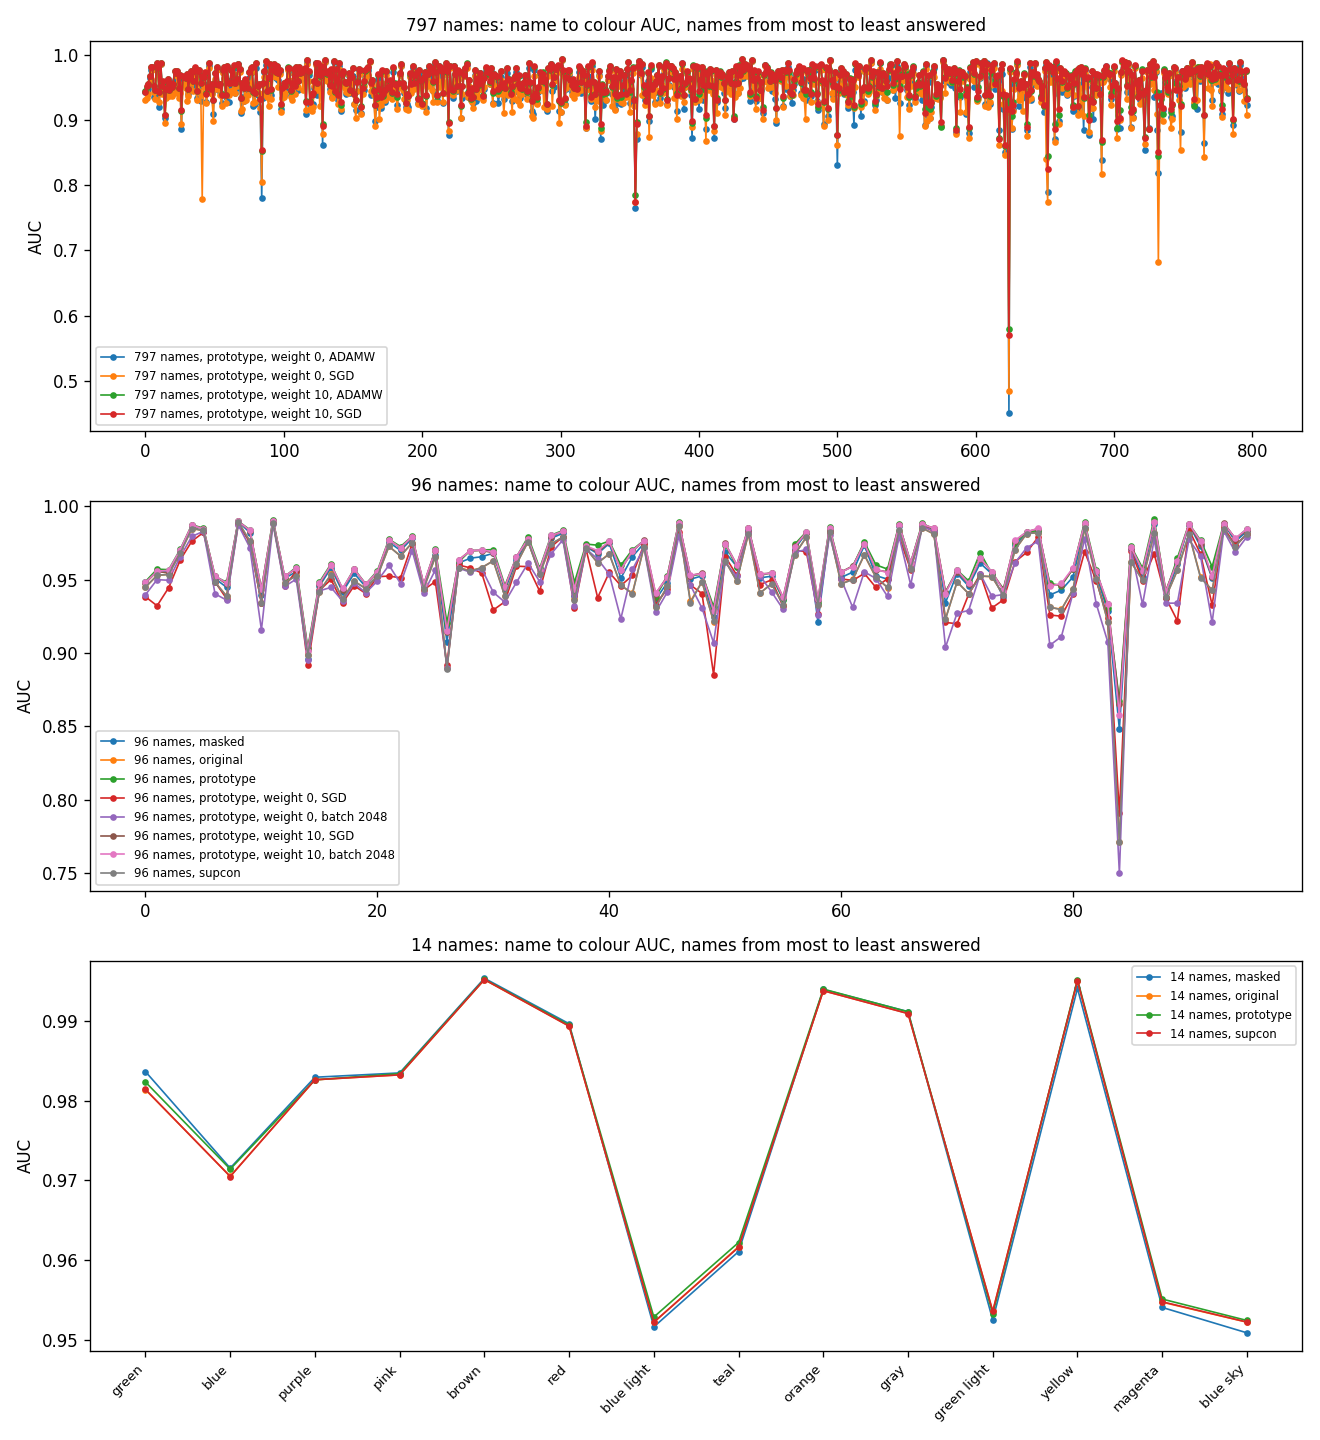
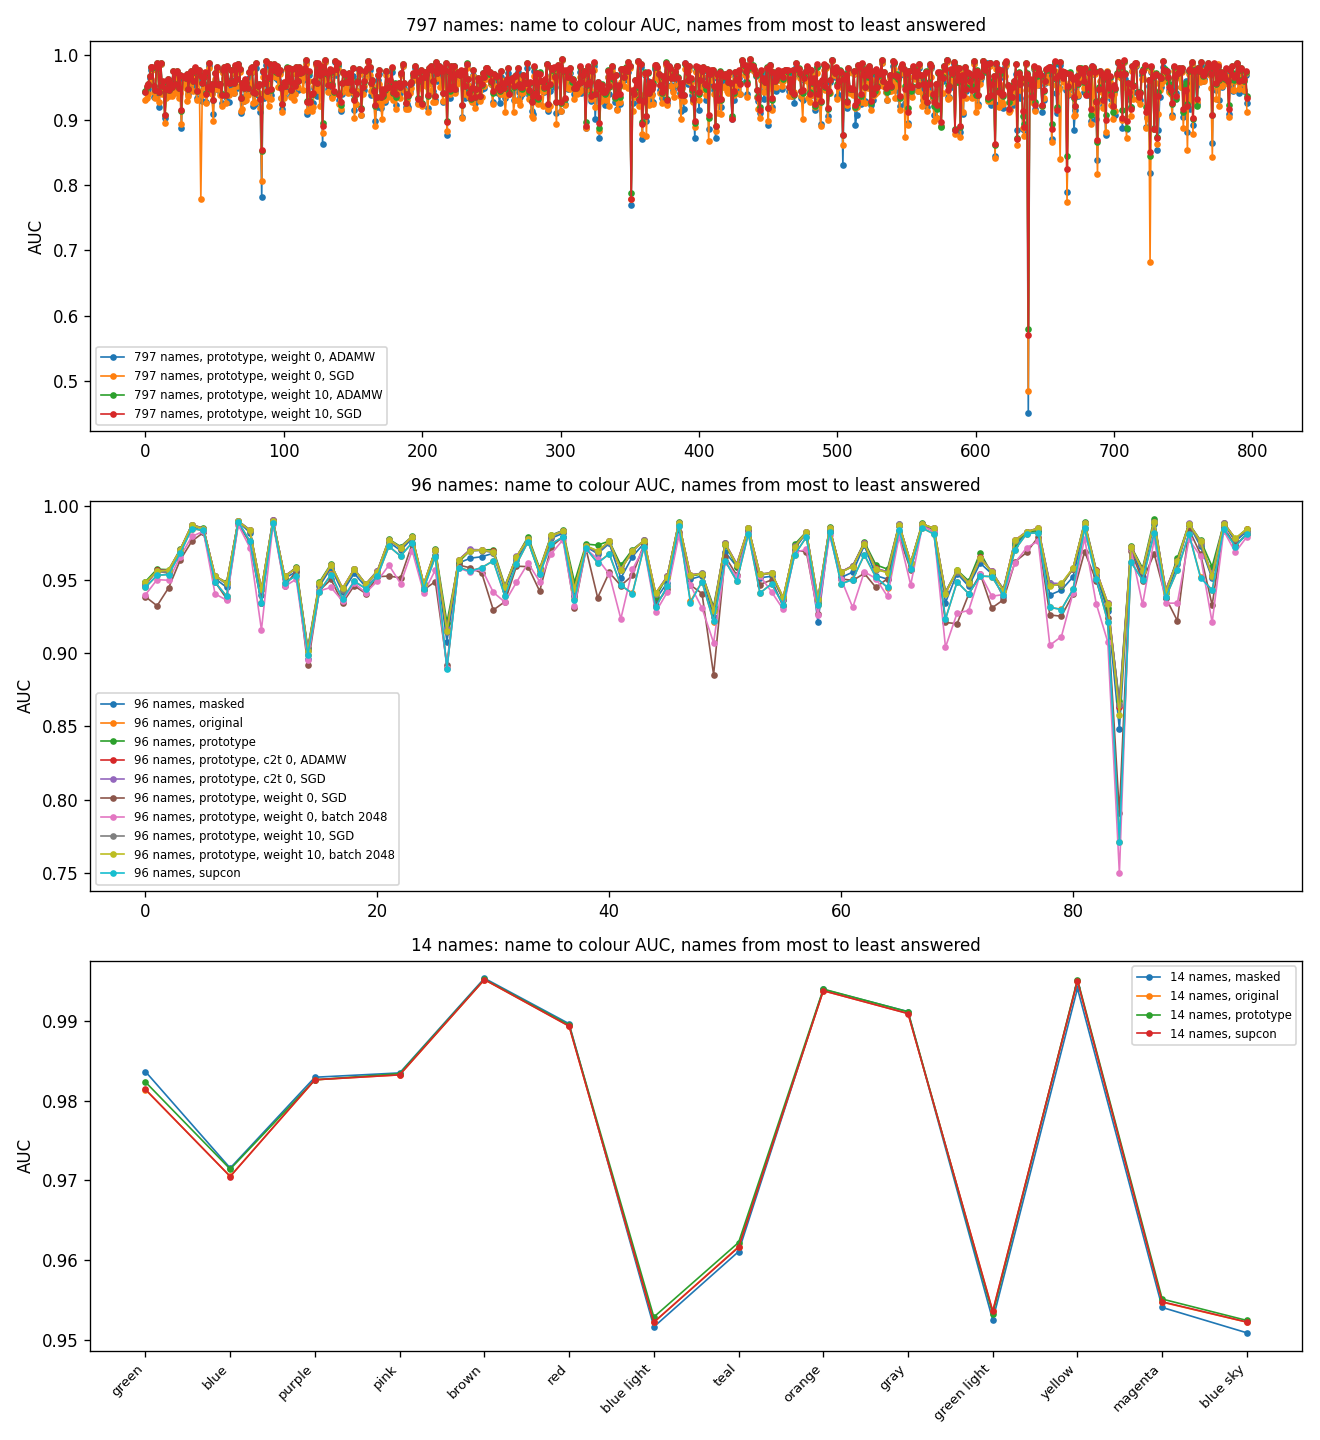
feat(annexes): include 22nd round in geometry and people_vs_model builds
Adds a fallback to load the final checkpoint because early stopping is disabled in Round 22, keeps Round 22 out of the baseline geometry table, and updates the geometry summary (1,292 runs) and people-vs-model figures (34 models).

diff --git a/annexes/people_vs_model/build.py b/annexes/people_vs_model/build.py
@@ -52,11 +52,14 @@ RUNS = [("14th", f"clip_96c_proto_dim64_ch64_th256_t2c{w}_bs{b}")
     ("8th", "clip_14c_supc_dim64_ch32_th128x256"),
 ] + [("20th", f"clip_96c_proto_dim64_ch64_th256_t2c{w}_sgd") for w in ("0", "01", "1", "10")] + [
     ("21st", f"clip_797c_proto_dim64_ch64_th256_t2c{w}_{o}")
-    for o in ("adamw", "sgd") for w in ("0", "01", "1", "10")]
+    for o in ("adamw", "sgd") for w in ("0", "01", "1", "10")
+] + [("22nd", f"clip_96c_proto_dim64_ch64_th256_c2t0_{o}") for o in ("adamw", "sgd")]
 
 
 def checkpoint(rnd, run):
-    return os.path.join("experiments", rnd, "models", run, "best_color_clip_model.pth")
+    base = os.path.join("experiments", rnd, "models", run)
+    best = os.path.join(base, "best_color_clip_model.pth")
+    return best if os.path.exists(best) else os.path.join(base, "color_clip_model.pth")
 
 
 def tv(p, q):
@@ -220,8 +223,8 @@ def score(rnd, run):
     tc = cfg["training"]
     np.savez_compressed(
         f"{run}.npz", round=rnd, run=run, names=np.array(names), loss=tc["loss_type"],
-        t2c_weight=tc.get("t2c_weight", 1.0), batch_size=cfg["data"]["batch_size"],
-        temperature=temp, **out)
+        c2t_weight=tc.get("c2t_weight", 1.0), t2c_weight=tc.get("t2c_weight", 1.0),
+        batch_size=cfg["data"]["batch_size"], temperature=temp, **out)
     print(f"{run}: AUC {out['auc'].mean():.3f}", flush=True)
 
 
@@ -231,6 +234,8 @@ def label(d):
         s += f", weight {float(d['t2c_weight']):g}, batch {int(d['batch_size'])}"
     elif str(d["round"]) in ("20th", "21st"):
         s += f", weight {float(d['t2c_weight']):g}, {str(d['run']).rsplit('_', 1)[1].upper()}"
+    elif str(d["round"]) == "22nd":
+        s += f", c2t 0, {str(d['run']).rsplit('_', 1)[1].upper()}"
     return s
 
 
@@ -260,16 +265,28 @@ def report():
             continue
         main_row = tbl.loc[run]
         has_crowd = pd.notna(main_row.get("Colour_To_Name_Diff"))
+        has_npz_full = f"name_model_{PLOT_TOL}" in d
         if len(d["names"]) <= 96 and not has_crowd:
             continue
 
-        pn = pd.read_csv(pn_path).set_index("Name")
         names = [str(n) for n in d["names"]]
-        answers = np.array([int(pn.loc[n, "Count"]) for n in names])
-        tol8_name_model = np.array([float(pn.loc[n, "Name_To_Colour_Diff"]) for n in names])
-        tol8_name_halves = np.array([float(pn.loc[n, "Name_To_Colour_Halves"]) for n in names])
-        tol8_centre = np.array([float(pn.loc[n, "Centre_Distance"]) for n in names])
-        tol8_width = np.array([float(pn.loc[n, "Width_Ratio"]) for n in names])
+        if has_crowd:
+            pn = pd.read_csv(pn_path).set_index("Name")
+            answers = np.array([int(pn.loc[n, "Count"]) for n in names])
+            tol8_name_model = np.array([float(pn.loc[n, "Name_To_Colour_Diff"]) for n in names])
+            tol8_name_halves = np.array([float(pn.loc[n, "Name_To_Colour_Halves"]) for n in names])
+            tol8_centre = np.array([float(pn.loc[n, "Centre_Distance"]) for n in names])
+            tol8_width = np.array([float(pn.loc[n, "Width_Ratio"]) for n in names])
+        elif has_npz_full:
+            answers = d["answers"]
+            tol8_name_model = d[f"name_model_{PLOT_TOL}"]
+            tol8_name_halves = d[f"name_halves_{PLOT_TOL}"]
+            tol8_centre = d["centre"]
+            tol8_width = d[f"width_model_{PLOT_TOL}"] / d[f"width_people_{PLOT_TOL}"]
+        else:
+            pn = pd.read_csv(pn_path).set_index("Name")
+            answers = np.array([int(pn.loc[n, "Count"]) for n in names])
+            tol8_name_model = tol8_name_halves = tol8_centre = tol8_width = np.full(len(names), np.nan)
         common = answers >= COMMON
 
         plot_runs.append({
@@ -308,11 +325,11 @@ def report():
                 "auc": round(float(d["auc"][k]), 4),
             })
 
-        for tol in (TOLS if has_crowd else (None,)):
+        for tol in (TOLS if (has_crowd or has_npz_full) else (None,)):
             if tol is None:
                 nm = nh = None
                 c2n_diff = c2n_halves = top_match = n2c_diff = n2c_halves = width_ratio = centre_dist = None
-            elif tol == PLOT_TOL:
+            elif tol == PLOT_TOL and has_crowd:
                 nm, nh = tol8_name_model, tol8_name_halves
                 c2n_diff = float(main_row["Colour_To_Name_Diff"])
                 c2n_halves = float(main_row["Colour_To_Name_Halves"])

diff --git a/annexes/geometry/build.py b/annexes/geometry/build.py
@@ -205,11 +205,14 @@ def load_results_table() -> pd.DataFrame:
                 if not lm:
                     continue
                 loss_short = lm.group(1)
+            ckpt = ("best_color_clip_model.pth"
+                    if (ROOT / "experiments" / rnd / "models" / exp / "best_color_clip_model.pth").exists()
+                    else "color_clip_model.pth")
             rows.append(dict(
                 round=rnd,
                 colors=k,
                 exp=exp,
-                path=f"experiments/{rnd}/models/{exp}/best_color_clip_model.pth",
+                path=f"experiments/{rnd}/models/{exp}/{ckpt}",
                 loss=loss_short,
                 dim=m["embed_dim"],
                 ch="x".join(map(str, m.get("color_hidden_dims") or [])) or "0",
@@ -233,7 +236,7 @@ def load_results_table() -> pd.DataFrame:
 # ---------------------------------------------------------------- analyses
 
 HP = ["lr", "temp", "t2c", "eps", "bs", "epochs", "patience", "seed"]
-VARIANT = r"_lr\d|_temp|_t2c|_bs\d|balsamp|_cw|learnproto|_sgd"
+VARIANT = r"_lr\d|_temp|_t2c|_c2t|_bs\d|balsamp|_cw|learnproto|_sgd"
 
 
 def default_grid(cp):

diff --git a/annexes/geometry/README.md b/annexes/geometry/README.md
@@ -220,5 +220,5 @@ Full list: `per_class_96c.csv`. Per-name scores for individual runs are stored i
 - **Clean rows only.** Every model is scored on its own split's test rows after the first
   5,000, which chose its epoch (research_plan.md note 10). 5,363 names are left out: after
   removing those rows, some names have one clean row or none.
-- **Coverage.** 1290 runs across rounds 7th through 21st
+- **Coverage.** 1292 runs across rounds 7th through 22nd
   at 14, 96 and 797 names. Gaps that remain show as `—` in the tower table.
